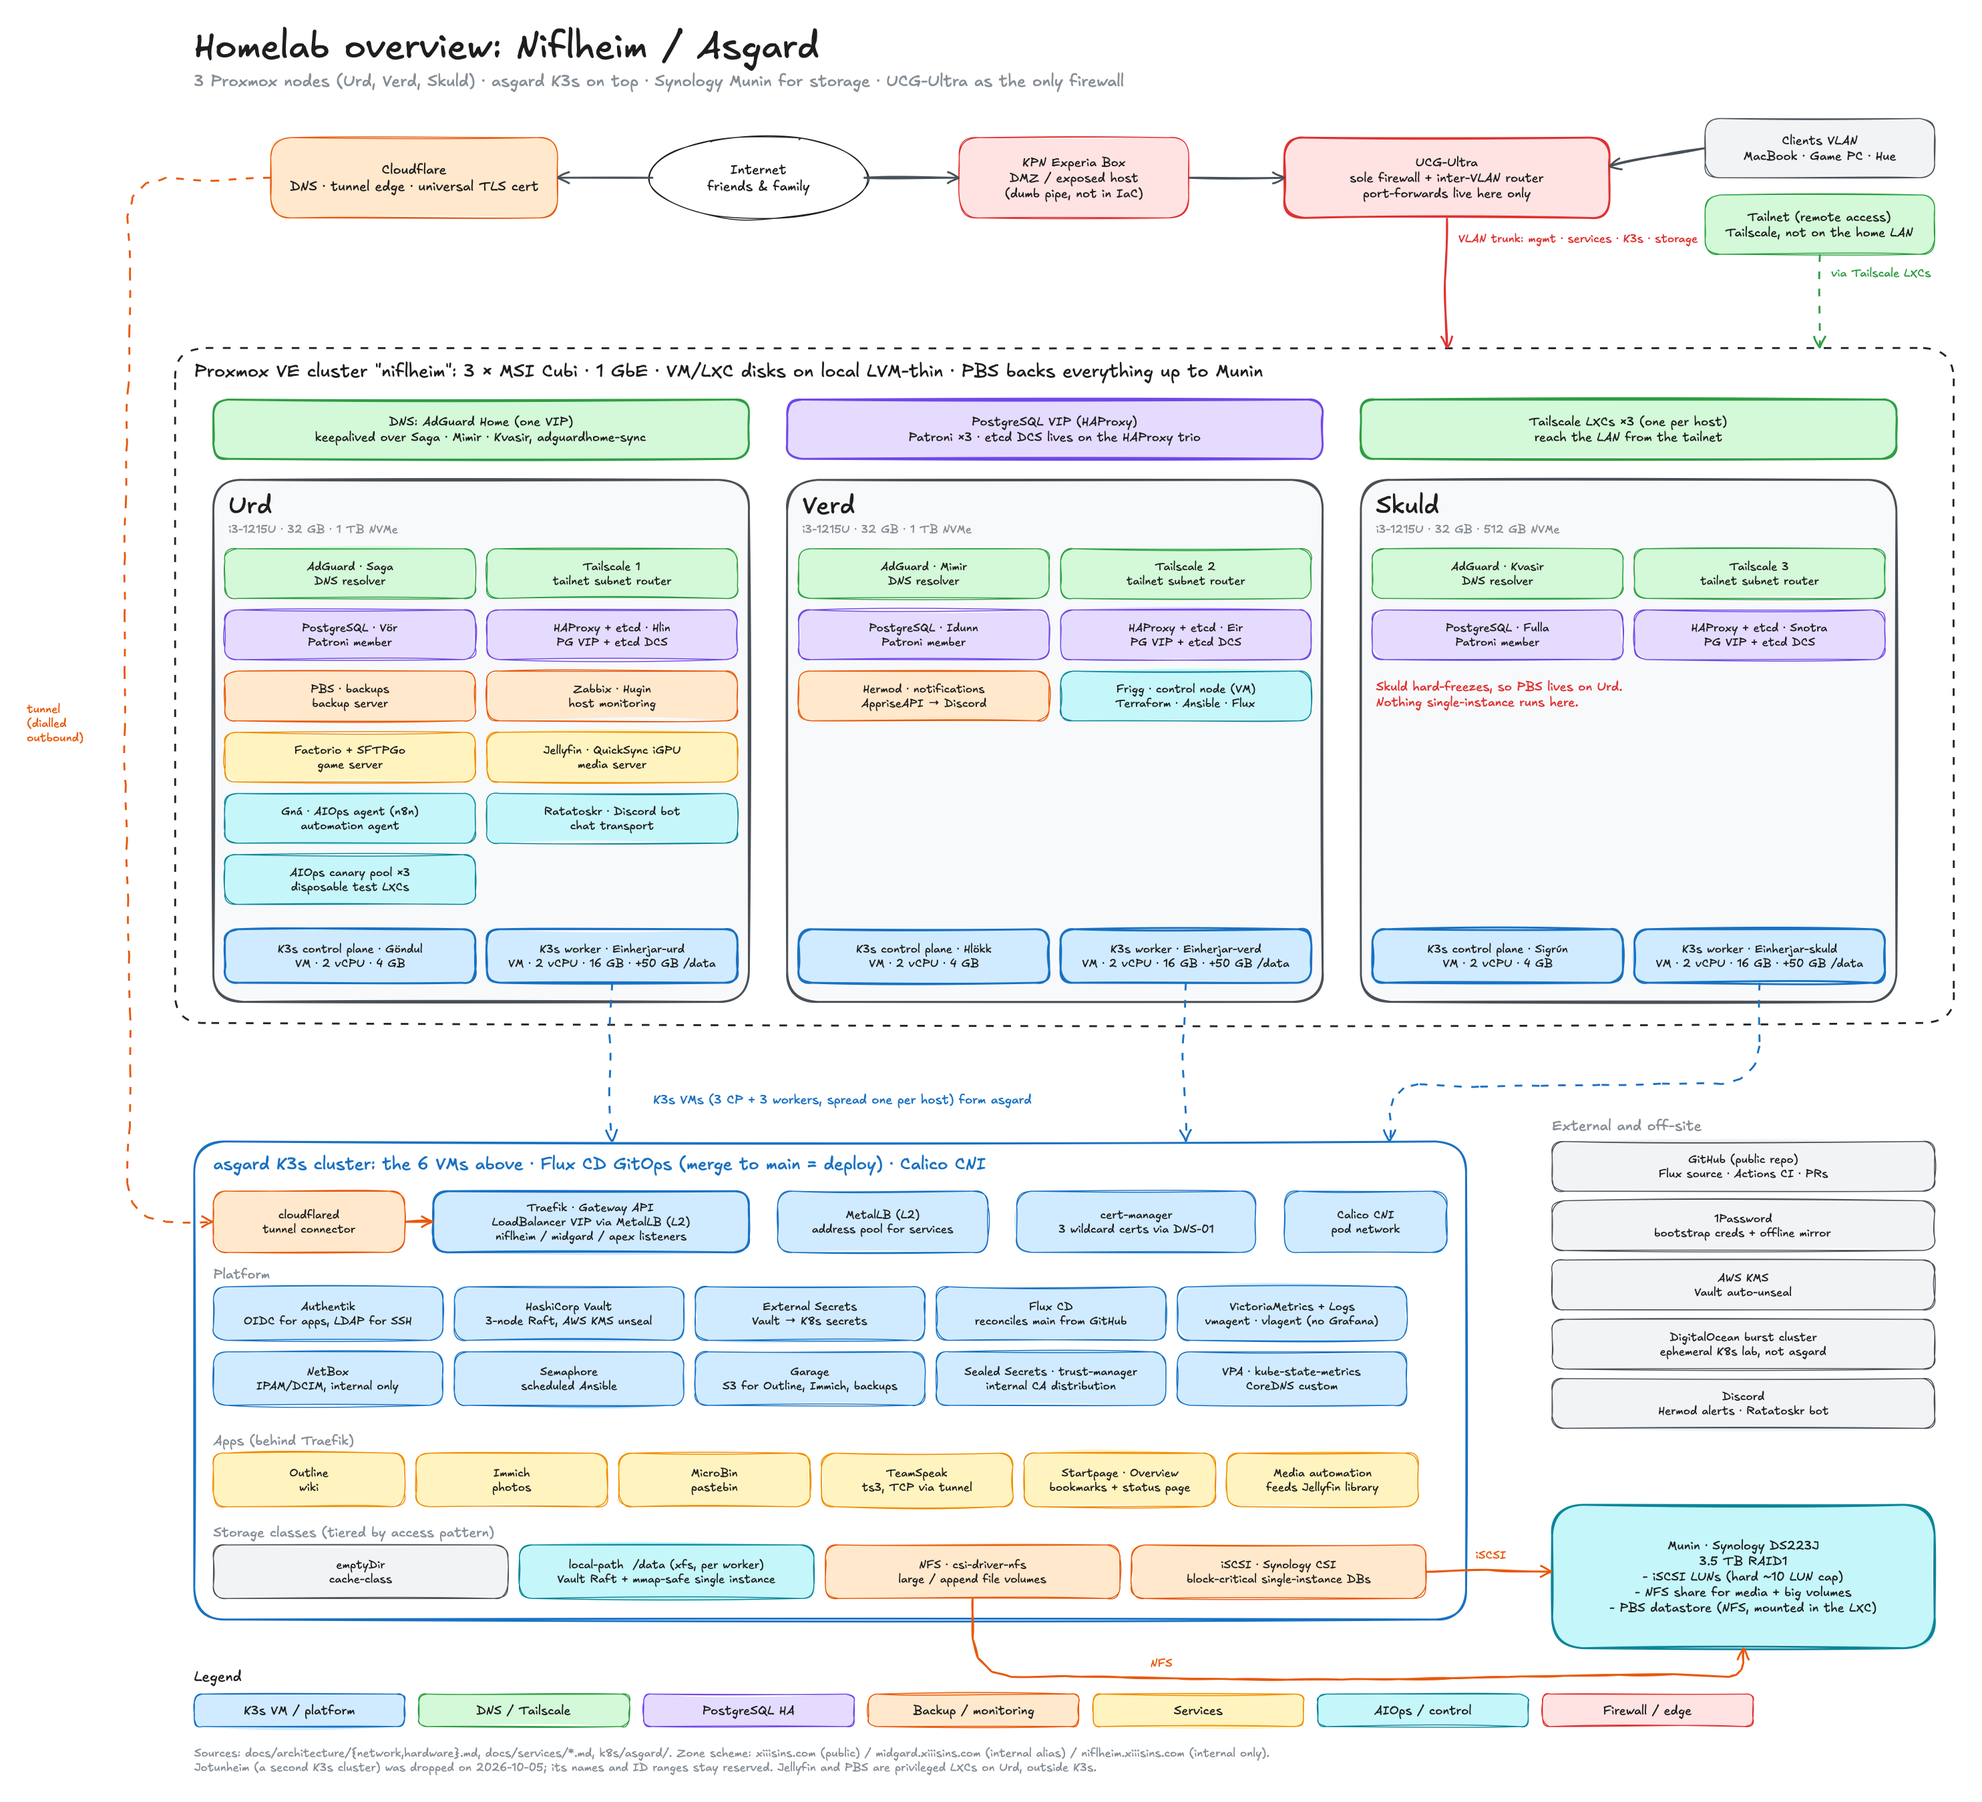
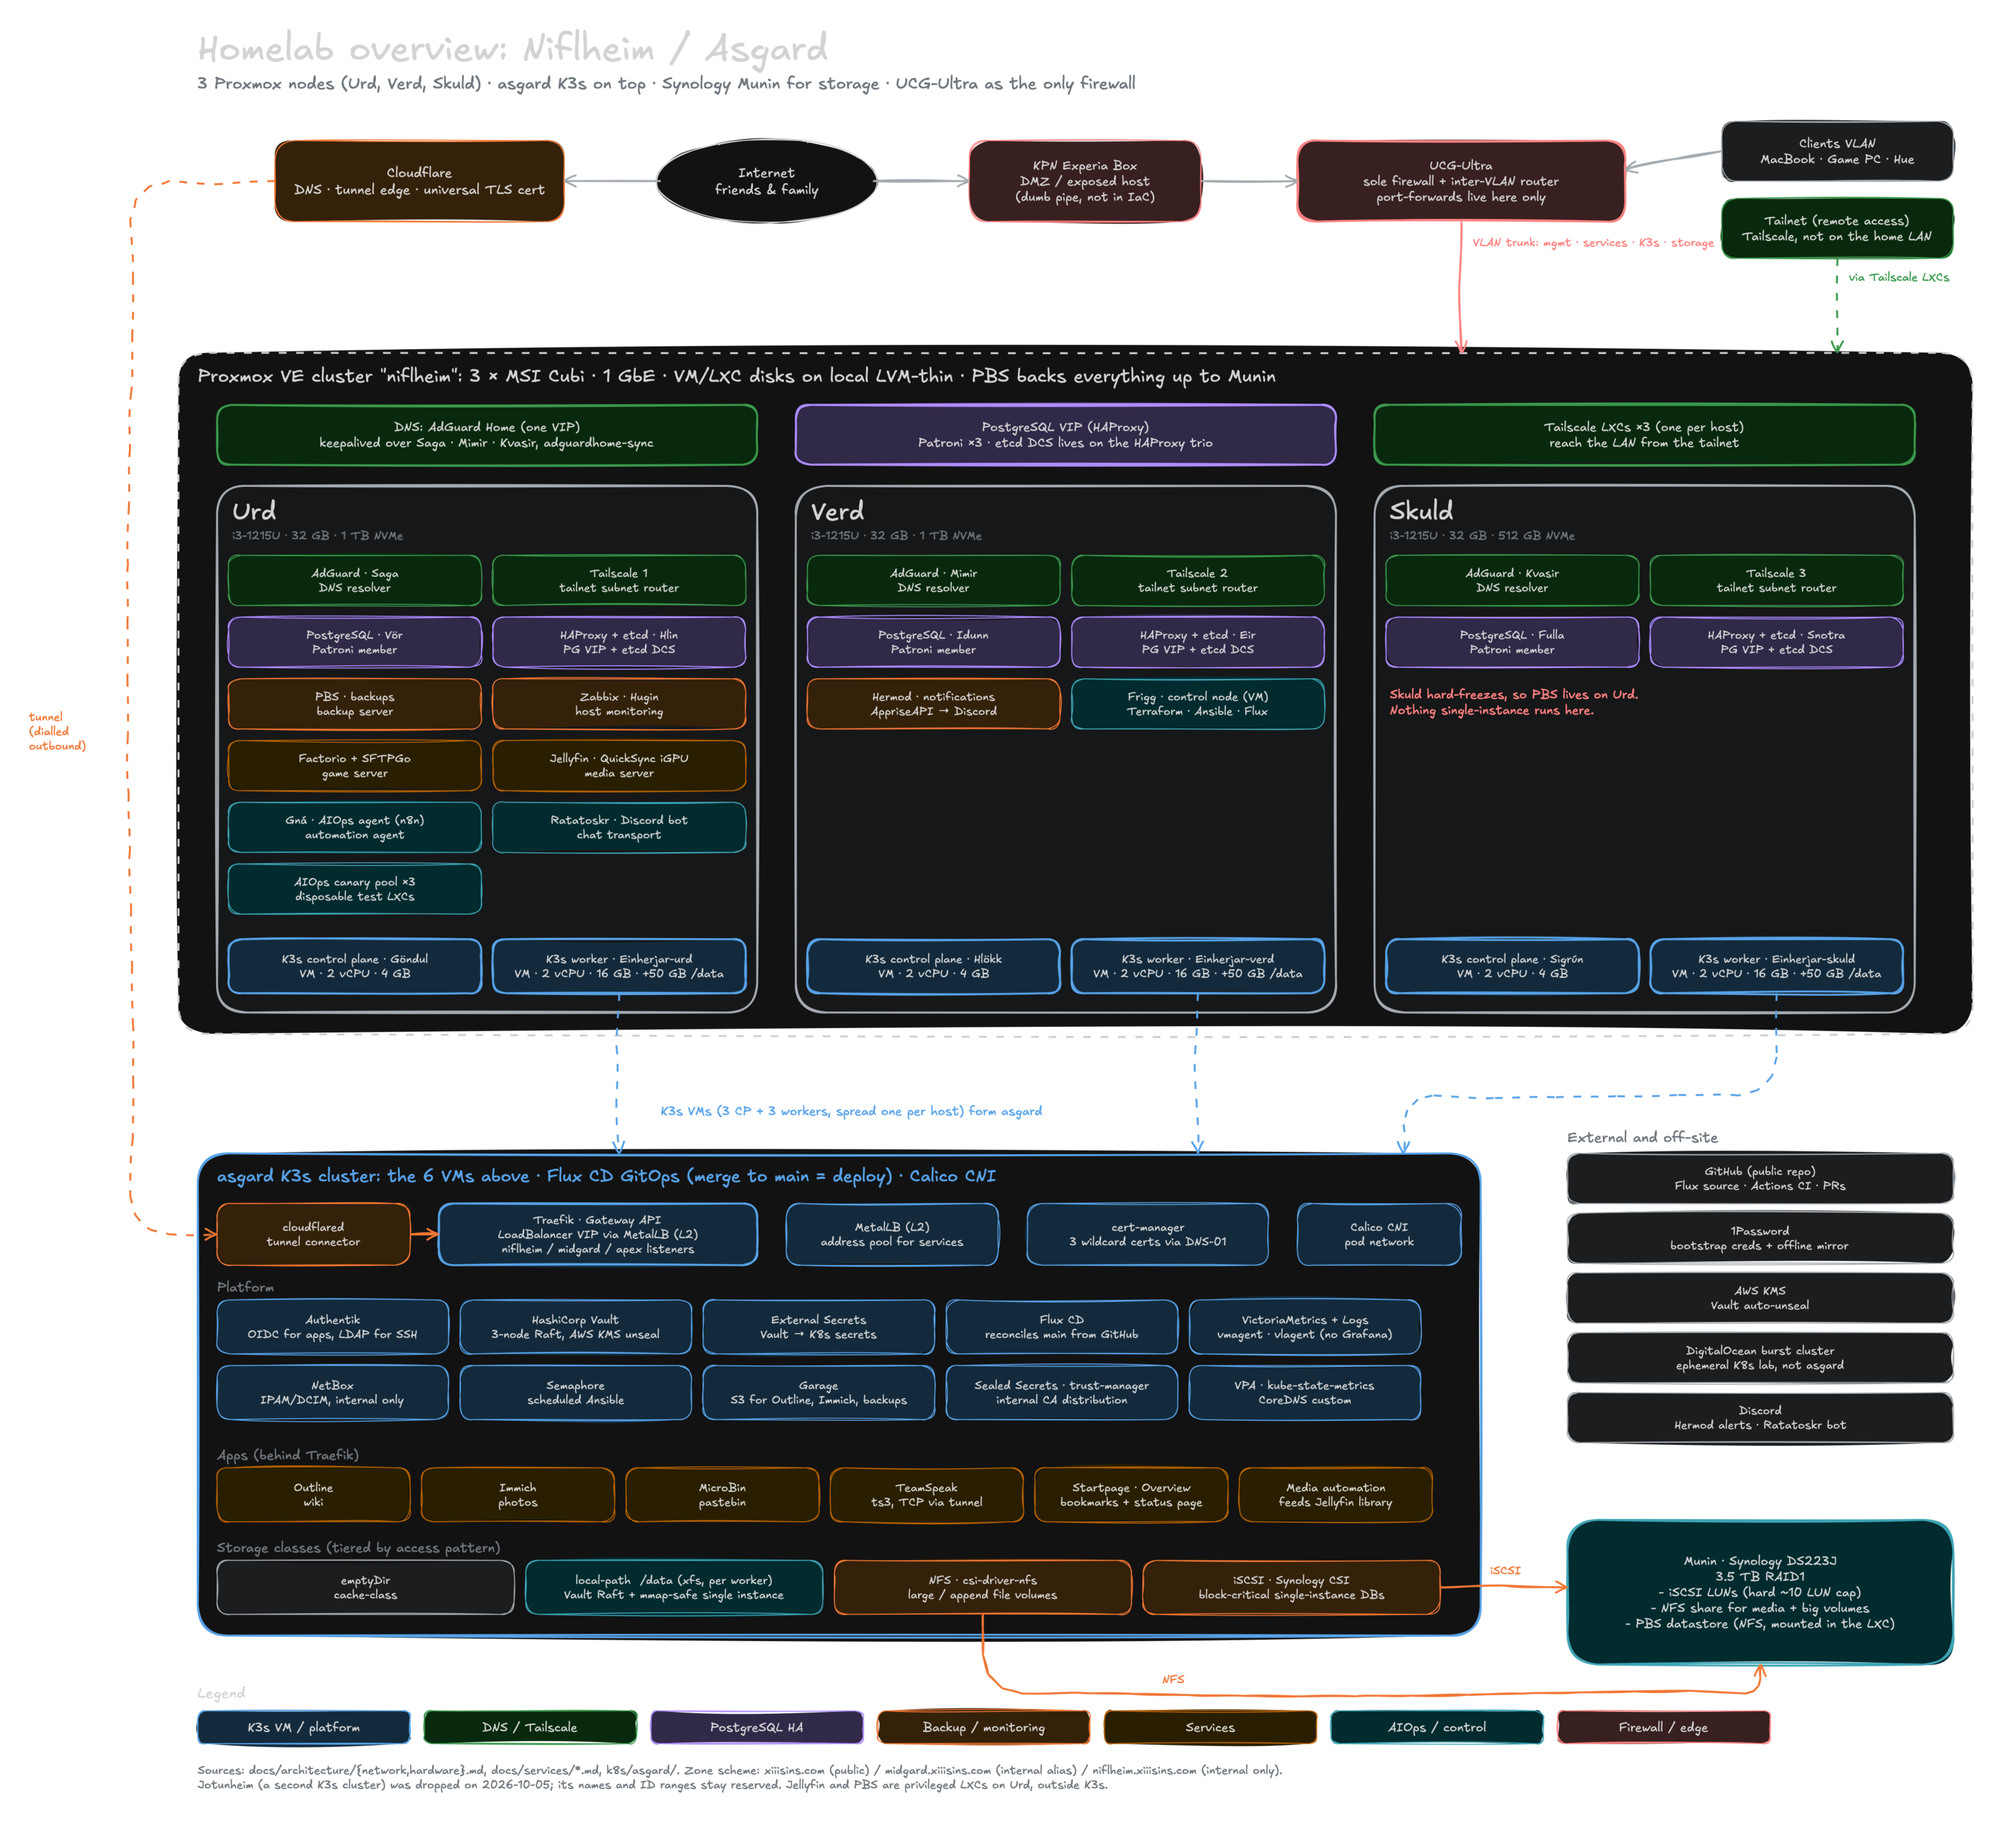
docs: overview diagram in dark theme with a transparent background (#285)
* docs(architecture): overview diagram in dark theme with a transparent background

Match the service diagrams: the source scene opens in Excalidraw's dark theme with no
canvas fill, and the PNG and SVG are the dark export (Excalidraw's invert/hue-rotate
filter on the stored colours) without a background.

* docs(outline): swap the overview diagram attachments for the dark version

Replace the PNG, .excalidraw and SVG on the Overview diagram page and make the Diagrams
page conventions and export steps the same for every diagram (dark mode, no background).

diff --git a/docs/outline/diagrams.md b/docs/outline/diagrams.md
@@ -52,7 +52,7 @@ Each service diagram is also embedded at the top of its service page, and the pl
 - **No addresses or IDs in a diagram.** No IP addresses, VM or container IDs, VLAN numbers or subnets. Those live in the text pages (**Hardware**, **Components & interactions**), so a diagram can be shared or reused without leaking the addressing plan.
 - **Colour means role, everywhere.** Blue is Kubernetes (VMs and platform), green is DNS and Tailscale, purple is PostgreSQL, orange is backup, monitoring and storage-side services, yellow is workloads people use, teal is automation and control, red is the firewall and edge, grey is outside the lab.
 - **Hand-drawn on purpose.** The diagrams are drawn in Excalidraw's sketch style to read as a map, not a spec.
-- **Service diagrams are dark with a transparent background**, so the page behind the picture is the background. On a light page the light ink is hard to read.
+- **Dark, with a transparent background.** Every diagram is drawn in Excalidraw's dark mode with no background fill, so the page behind the picture is the background. On a light page the light ink is hard to read.
 
 ---
 
@@ -62,7 +62,7 @@ Every diagram page has an `.excalidraw` file attached. To change one:
 
 1. Download the `.excalidraw` file from its page.
 2. Open <https://excalidraw.com>, choose **Open** (Cmd/Ctrl+O) and pick the file.
-3. Edit, then export a PNG and an SVG. For a service diagram turn **Dark mode** on and **Background** off; the overview diagram uses a solid background with **Dark mode** off.
+3. Edit, then export a PNG and an SVG with **Dark mode** on and **Background** off.
 4. Replace the attachments on the page. The same sources live in Git: `docs/architecture/` for the overview, `docs/services/diagrams/` for the rest.
 
 The picture inside Outline is a PNG, so it only changes when the page is edited.

diff --git a/docs/homelab-design.md b/docs/homelab-design.md
@@ -13,7 +13,7 @@ A ground-up homelab demonstrating senior-level infrastructure design.
 
 ## Architecture — the design itself
 
-- [`homelab-overview.png`](architecture/homelab-overview.png): one-page picture of the whole lab (edge, three Proxmox hosts and their guests, asgard K3s, storage, off-site), with no IPs or IDs so it is safe to reuse. Editable source: [`homelab-overview.excalidraw`](architecture/homelab-overview.excalidraw) (open it at excalidraw.com); vector copy: [`homelab-overview.svg`](architecture/homelab-overview.svg).
+- [`homelab-overview.png`](architecture/homelab-overview.png): one-page picture of the whole lab (edge, three Proxmox hosts and their guests, asgard K3s, storage, off-site), with no IPs or IDs so it is safe to reuse. Dark theme on a transparent background, like the service diagrams (light ink, so it reads best on a dark page). Editable source: [`homelab-overview.excalidraw`](architecture/homelab-overview.excalidraw) (open it at excalidraw.com); vector copy: [`homelab-overview.svg`](architecture/homelab-overview.svg).
 - [`hardware.md`](architecture/hardware.md): nodes (Urd/Verd/Skuld, Munin), storage tiers, naming convention.
 - [`network.md`](architecture/network.md): VLANs, per-LXC/VM IPs, cluster CIDRs, VMID scheme, three-zone DNS and TLS, internet exposure and firewall.
 - [`identity-secrets.md`](architecture/identity-secrets.md): Authentik/LDAP/SSSD, the three secret stores, AppRole bootstrap, control-node tooling.

diff --git a/docs/outline/diagrams/overview.md b/docs/outline/diagrams/overview.md
@@ -4,7 +4,7 @@
 
 The whole homelab on one sheet. It is a map, not a reference: it shows what exists and how the layers connect. **Components & interactions** explains each layer, and **Hardware** carries the addresses and specs that are left out here on purpose.
 
-![Homelab overview](/api/attachments.redirect?id=d456af80-c117-4ceb-894c-eb95787b82a7)
+![Homelab overview](/api/attachments.redirect?id=e7a7b97d-1437-42c9-a9d9-9bde9cdfe265)
 
 ---
 
@@ -22,6 +22,6 @@ The whole homelab on one sheet. It is a map, not a reference: it shows what exis
 
 The editable source (open it at excalidraw.com; the export settings are on the **Diagrams** page) and a vector copy for zooming in or reusing elsewhere.
 
-[homelab-overview.excalidraw 142204](/api/attachments.redirect?id=de785e63-cc79-4478-9120-209534375b59)
+[homelab-overview.excalidraw 142227](/api/attachments.redirect?id=2879cfa7-c684-4e98-a767-46a3eaf8fa74)
 
-[homelab-overview.svg 279474](/api/attachments.redirect?id=f5f10a23-756d-4cdb-99e2-443aee4dd744)
+[homelab-overview.svg 279452](/api/attachments.redirect?id=0e70051d-5a88-46ac-a6d9-134aa9e511fe)
